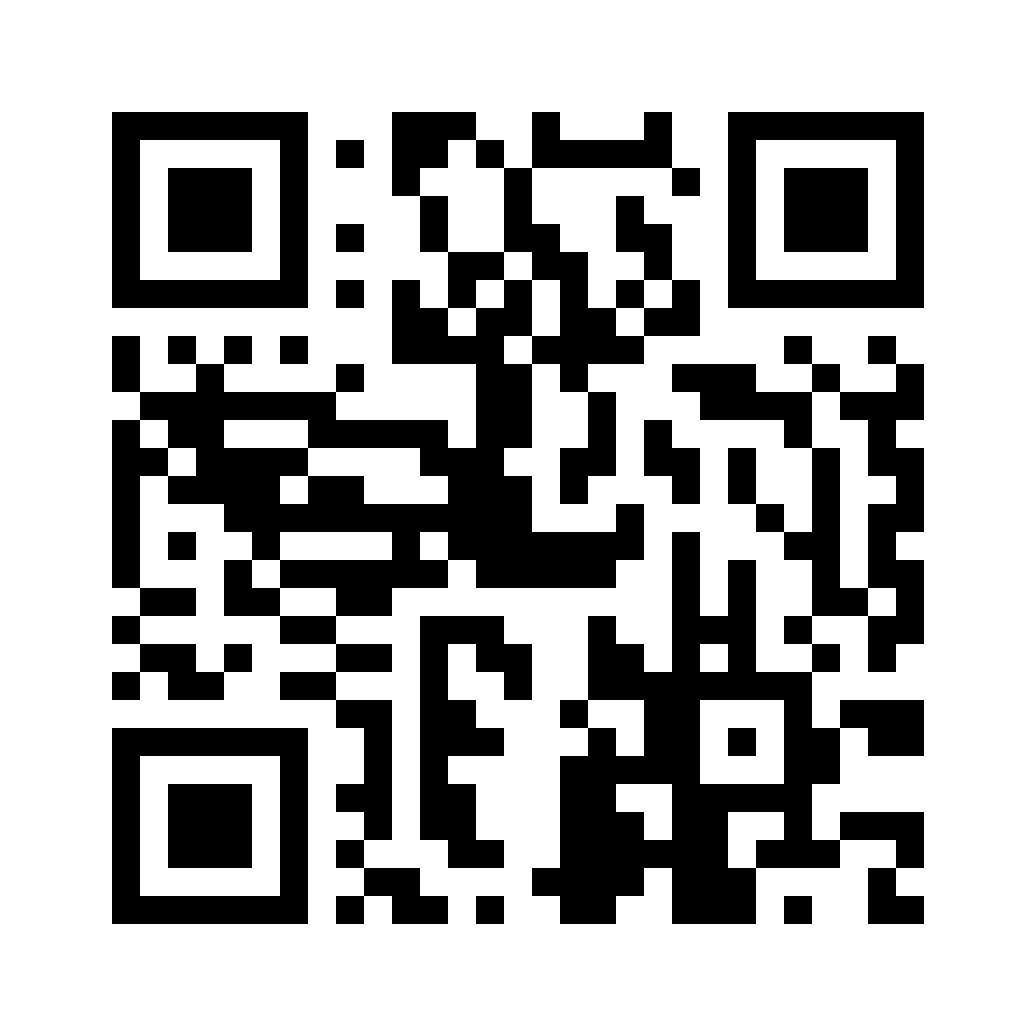
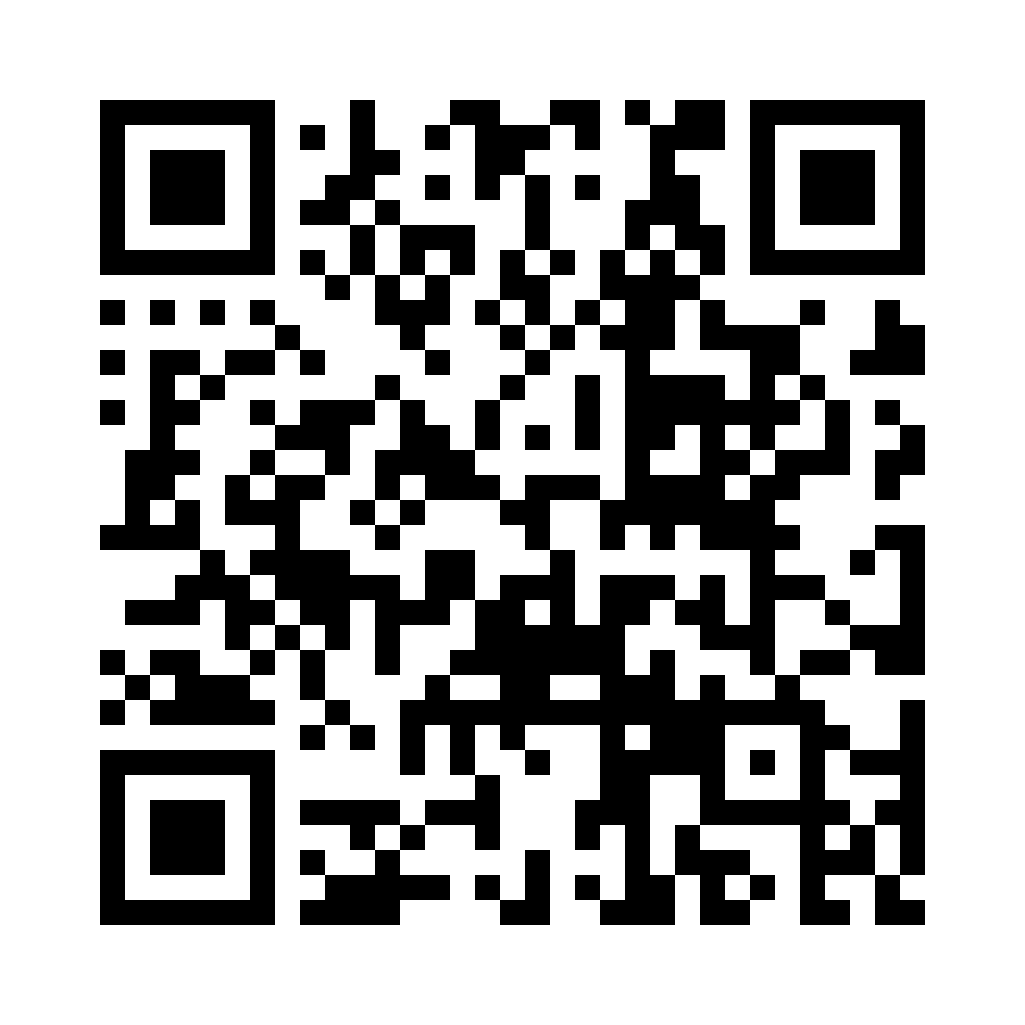
feat(core,web): ?lang= 로 첫 화면 언어를 정하고 발표용 QR 을 ?lang=ja 주소로 바꿔요 (#20)
- core i18n: localeFromQuery() — 쿼리의 lang 값(ja·ko, 대소문자 무시)만 읽고, 없거나 모르는 값·깨진 인코딩은 null (시험 3개)
- web: 앱을 불러올 때 ?lang= 가 있으면 저장된 언어보다 우선해서 바꾸고 저장해요.
  처음 방문이면 언어 선택을 건너뛰고 역할 선택부터 시작해요. 운영자 화면(/admin/*)도 같은 규칙
- QR: scripts/gen-qr.ts 의 기본 주소를 https://atome9797.github.io/sdgs-compass/?lang=ja 로 바꾸고
  docs/qr/web-demo.{png,svg} 를 다시 만들었어요(33×33, 오류 정정 M — OpenCV 판독기 3종으로 축소·흐림·JPEG·기울기 판독 확인)

Closes #20

Claude-Session: https://claude.ai/code/session_01LvWATVHgpvryt6TBs7ZpJZ

diff --git a/packages/core/src/i18n.test.ts b/packages/core/src/i18n.test.ts
@@ -1,5 +1,5 @@
 import { describe, expect, it } from "vitest";
-import { DEFAULT_LOCALE, detectLocale, interpolate, isLocale, LOCALE_NAMES, LOCALES, pick, placeholdersOf } from "./i18n";
+import { DEFAULT_LOCALE, detectLocale, interpolate, isLocale, localeFromQuery, LOCALE_NAMES, LOCALES, pick, placeholdersOf } from "./i18n";
 
 describe("locale", () => {
   it("일본어와 한국어 두 가지예요", () => {
@@ -51,5 +51,32 @@ describe("interpolate / placeholdersOf", () => {
   it("자리표시자 이름 목록(중복 없이, 정렬)", () => {
     expect(placeholdersOf("{b} {a} {b}")).toEqual(["a", "b"]);
     expect(placeholdersOf("없음")).toEqual([]);
+  });
+});
+
+describe("localeFromQuery (#20 ?lang=)", () => {
+  it("lang 값이 ja·ko 면 그 언어 (대소문자·앞뒤 공백 무시)", () => {
+    expect(localeFromQuery("?lang=ja")).toBe("ja");
+    expect(localeFromQuery("lang=ko")).toBe("ko");
+    expect(localeFromQuery("?lang=KO")).toBe("ko");
+    expect(localeFromQuery("?lang=%20ja%20")).toBe("ja");
+    expect(localeFromQuery("?lang=%6Aa")).toBe("ja");
+  });
+  it("다른 쿼리와 섞여 있어도 lang 만 봐요 · 여러 번이면 첫 값", () => {
+    expect(localeFromQuery("?utm_source=qr&lang=ja")).toBe("ja");
+    expect(localeFromQuery("?lang=ja&lang=ko")).toBe("ja");
+    expect(localeFromQuery("?language=ko&lang=ja")).toBe("ja");
+  });
+  it("없거나 모르는 값·깨진 인코딩이면 null (예외 없이)", () => {
+    expect(localeFromQuery("")).toBeNull();
+    expect(localeFromQuery(null)).toBeNull();
+    expect(localeFromQuery(undefined)).toBeNull();
+    expect(localeFromQuery("?")).toBeNull();
+    expect(localeFromQuery("?lang=")).toBeNull();
+    expect(localeFromQuery("?lang")).toBeNull();
+    expect(localeFromQuery("?lang=en")).toBeNull();
+    expect(localeFromQuery("?lang=<script>")).toBeNull();
+    expect(localeFromQuery("?lang=%E0%A4%A")).toBeNull();
+    expect(localeFromQuery("?LANG=ja")).toBeNull();
   });
 });

diff --git a/packages/core/src/i18n.ts b/packages/core/src/i18n.ts
@@ -41,6 +41,33 @@ export function detectLocale(languages: readonly string[] | null | undefined): L
   return DEFAULT_LOCALE;
 }
 
+/**
+ * 주소의 쿼리(예: location.search 의 "?lang=ja")에서 언어를 읽어요(#20 — QR 로 열면 일본어로 바로 시작).
+ * 이름이 정확히 `lang` 인 첫 값만 보고, 값은 대소문자를 가리지 않아요. ja·ko 가 아니거나 읽을 수 없으면 null.
+ * URLSearchParams 에 기대지 않고 직접 나눠요(앱·서버 어디서든 같은 결과, 깨진 %인코딩도 예외 없이 null).
+ */
+export function localeFromQuery(search: string | null | undefined): Locale | null {
+  if (!search) return null;
+  const query = search.startsWith("?") ? search.slice(1) : search;
+  for (const part of query.split("&")) {
+    const eq = part.indexOf("=");
+    const rawName = eq === -1 ? part : part.slice(0, eq);
+    let name: string;
+    let value: string;
+    try {
+      name = decodeURIComponent(rawName.replace(/\+/g, " "));
+      value = eq === -1 ? "" : decodeURIComponent(part.slice(eq + 1).replace(/\+/g, " "));
+    } catch {
+      if (rawName === "lang") return null;
+      continue;
+    }
+    if (name !== "lang") continue;
+    const lower = value.trim().toLowerCase();
+    return isLocale(lower) ? lower : null;
+  }
+  return null;
+}
+
 export type MessageParams = Record<string, string | number>;
 
 /** "{name}" 자리를 값으로 바꿔요. 값이 없으면 자리표시자를 그대로 둬요. */

diff --git a/apps/web/src/lib/session.tsx b/apps/web/src/lib/session.tsx
@@ -7,7 +7,7 @@ import { createContext, useCallback, useContext, useEffect, useMemo, useState, u
 import { createAppStore, loadApp, persistApp, resetEverything, type AppAction, type AppState, type AppStore, type Persistence } from "@sdgs-compass/data/app";
 import { browserStorage } from "@sdgs-compass/data/storage";
 import type { DemoState, Role } from "@sdgs-compass/core/domain";
-import { DEFAULT_LOCALE, type Locale } from "@sdgs-compass/core/i18n";
+import { DEFAULT_LOCALE, localeFromQuery, type Locale } from "@sdgs-compass/core/i18n";
 import { makeT, type TFunction } from "@sdgs-compass/core/messages";
 
 interface Session {
@@ -48,6 +48,10 @@ export function AppProvider({ children, initialApp }: AppProviderProps) {
       if (cancelled) return;
       const store = createAppStore(app);
       persistence = persistApp(store, kv);
+      // 주소에 ?lang=ja|ko 가 있으면 저장된 언어보다 우선하고 그 값을 저장해요(#20 — QR 로 열면 일본어로 바로 시작).
+      // 저장 구독(persistApp)을 켠 뒤에 바꿔야 저장돼요. 언어를 고른 것과 같아서 첫 방문이면 다음은 역할 선택이에요.
+      const fromUrl = localeFromQuery(window.location.search);
+      if (fromUrl && fromUrl !== app.locale) store.dispatch({ type: "setLocale", locale: fromUrl });
       setSession({ store, persistence });
     });
     return () => {

diff --git a/scripts/gen-qr.ts b/scripts/gen-qr.ts
@@ -10,7 +10,8 @@ import { deflateSync } from "node:zlib";
 import { qrMatrix } from "../packages/core/src/qr";
 
 const root = resolve(dirname(fileURLToPath(import.meta.url)), "..");
-const DEFAULT_URL = "https://atome9797.github.io/sdgs-compass/";
+/** 발표용 QR 은 ?lang=ja 를 붙여요 — 열면 일본어로 바로 시작해요(#20, 저장된 언어보다 우선). 주소만 필요하면 인자로 넘기세요. */
+const DEFAULT_URL = "https://atome9797.github.io/sdgs-compass/?lang=ja";
 /** QR 규격이 요구하는 바깥 여백(모듈 4칸). 이 여백이 있어야 어두운 배경 슬라이드 위에서도 읽혀요. */
 const QUIET = 4;
 /** PNG 한 변의 최소 크기(px). 한 칸을 정수 픽셀로 키워서 가장자리가 번지지 않게 해요. */
